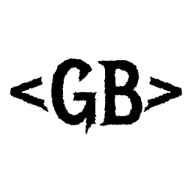
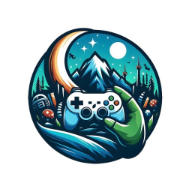
Changes
Changed the favicon to look a bit better instead of having just 2 letters that was hard to read.

Added a welcome section to the Home page and removed the slider from the Home page.

diff --git a/index.html b/index.html
@@ -85,17 +85,24 @@
       </nav>
     </header>
     <main>
-      <div id="slider-container">
-        <button id="prev-btn" aria-label="Previous Slide">❮</button>
-        <div id="slider-wrapper">
-          <div id="slider">
-            <!-- Slides will be dynamically added here -->
-          </div>
+      <div id="welcome-wrapper">
+        <div id="welcome-container">
+          <h1>Welcome to GamerBlog!</h1>
+          <p>
+            GamerBlog is a platform where gamers can share their experiences and
+            insights on their favorite video games. Whether you're a seasoned
+            gamer or a newcomer to the world of gaming, GamerBlog is the perfect
+            place to find the stories that matter most to you.
+          </p>
+          <img
+            src="../images/Gamerblog-image.jpg"
+            alt="Gaming Image"
+            class="welcome-image"
+          />
         </div>
-        <button id="next-btn" aria-label="Next Slide">❯</button>
       </div>
-
       <div class="page-container">
+        <h1>Latest Blog Posts</h1>
         <div id="blog-feed">
           <div id="thumbnail-grid"></div>
         </div>

diff --git a/css/index.css b/css/index.css
@@ -9,6 +9,24 @@ p {
   text-align: center;
 }
 
+#welcome-wrapper {
+  display: flex;
+  justify-content: center;
+  align-items: center;
+}
+
+#welcome-container {
+  display: flex;
+  flex-direction: column;
+  align-items: center;
+  width: 1000px;
+}
+.welcome-image {
+  width: 500px;
+  height: auto;
+  background: transparent;
+}
+
 #postImage {
   width: 500px;
   height: auto;
